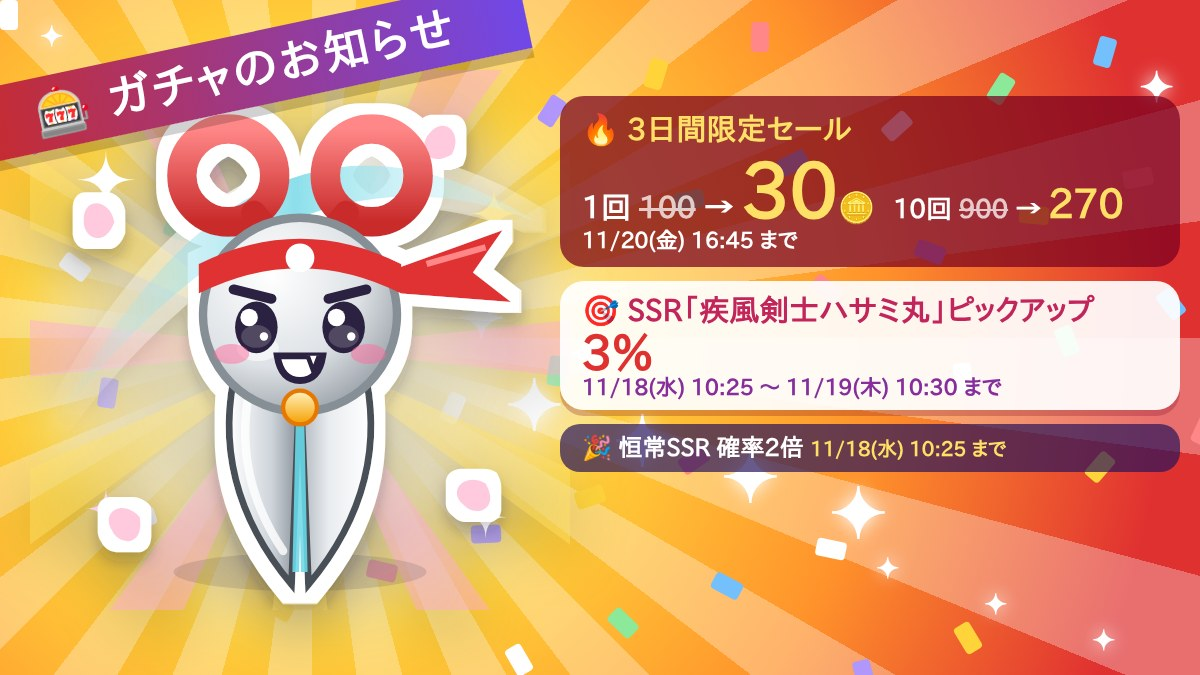
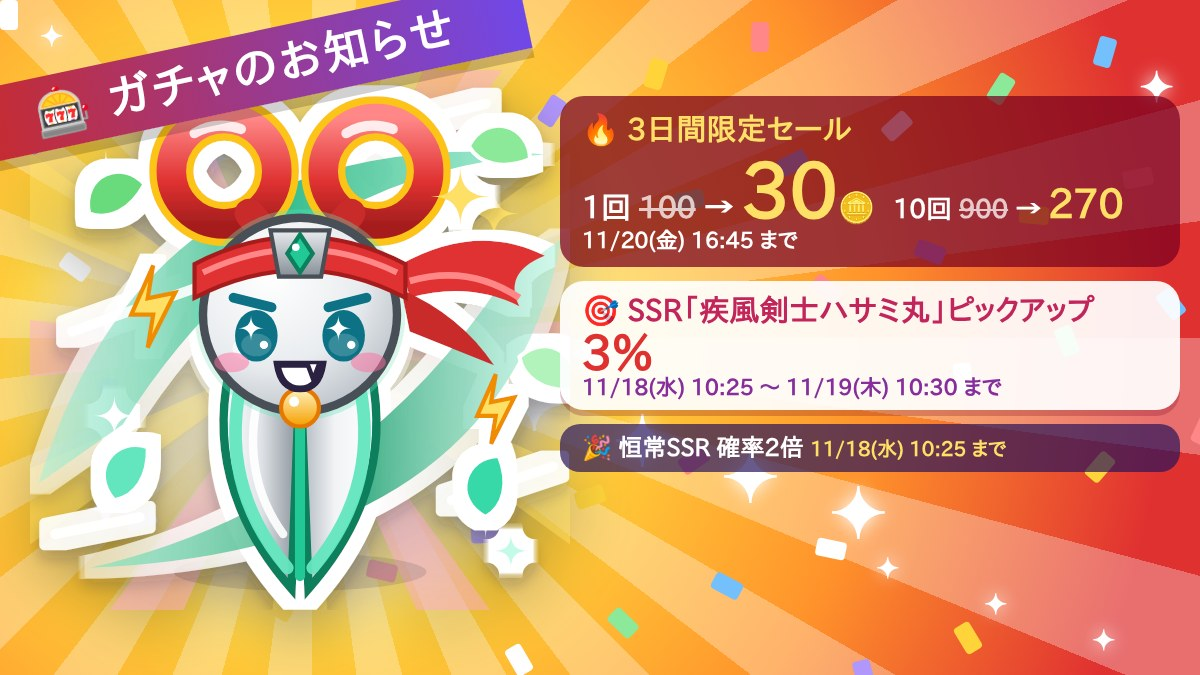
ハサミ丸をもっと派手なデザインに・しっぷうぎりに緑の斬撃の演出・わざの説明から専用の表記を消す
- 絵: エメラルドの疾風・稲妻・葉っぱ、赤金のリング、なびく鉢巻と宝石、星の目
- 対戦: しっぷうぎりで相手の盤面に緑の斬撃。大きな演出は画面の上に重ねて出す (次のターンで消えないように)
- ドパバナー (新キャラ・ガチャ・クエスト) を作り直し

Claude-Session: https://claude.ai/code/session_0131LAB3VBSEDYy6z21kYLHB

Changed region(s): [[0.0, 0.1244, 0.4933, 0.9022]]

diff --git a/public/cards-art.js b/public/cards-art.js
@@ -233,43 +233,42 @@
         <rect x="34" y="22" width="9" height="24" rx="3" fill="#f8f9fa" stroke="#ced4da" transform="rotate(-24 38 34)"/><rect x="77" y="22" width="9" height="24" rx="3" fill="#fff0f6" stroke="#fcc2d7" transform="rotate(24 82 34)"/>
         <path d="M14,24l4,4m0-4l-4,4M100,18a4,4 0 1 0 0.1,0M16,100q4-6 8,0" stroke="#fff" stroke-width="2" fill="none" opacity=".8" stroke-linecap="round"/>
         ${face(60, 62, { eyes: 'fierce', mouth: 'grin' })}`,
+      // 疾風剣士ハサミ丸: エメラルドの疾風をまとった刀のハサミ。燃える赤金のリング、なびく鉢巻、星の目でニカッと笑う
       scissors: () => {
-        const petal = (x, y, r) => `<path d="M${x},${y}c-3,-5 -9,-3 -7,2c1,4 7,5 7,-2z" fill="#ffc9de" transform="rotate(${r} ${x} ${y})"/>`;
+        const leaf = (x, y, r, c) => `<path d="M${x},${y}c-5,-8 3,-15 10,-11c-1,7 -5,11 -10,11z" fill="${c}" stroke="#fff" stroke-width="1" transform="rotate(${r} ${x} ${y})"/>`;
+        const bolt = (x, y, sc) => `<path d="M${x},${y}l${4 * sc},${-9 * sc}l${-1 * sc},${6 * sc}l${5 * sc},${-1 * sc}l${-5 * sc},${10 * sc}l${1 * sc},${-6 * sc}z" fill="#ffe066" stroke="#f08c00" stroke-width="1"/>`;
         return `
-        <path class="cb-slash" d="M2,78Q50,-12 116,30Q56,6 2,78Z" fill="${lg('sl', [[0, '#99e9f2', 0], [0.5, '#66d9e8', 0.85], [1, '#e3fafc', 0.2]], 1, 0)}"/>
-        ${petal(16, 30, 20)}${petal(104, 92, -30)}${petal(96, 14, 60)}${petal(22, 100, -10)}
-        <path d="M45,64Q38,92 58,116L60,66Z" fill="${lg('bl', [[0, '#ffffff'], [0.6, '#ced4da'], [1, '#868e96']], 1, 0)}" stroke="#495057" stroke-width="1.6"/>
-        <path d="M75,64Q82,92 62,116L60,66Z" fill="${lg('br', [[0, '#adb5bd'], [0.4, '#e9ecef'], [1, '#ffffff']], 1, 0)}" stroke="#495057" stroke-width="1.6"/>
-        <path d="M60,68L59,113M60,68L61,113" stroke="#66d9e8" stroke-width="1.6" opacity=".9"/>
-        <path d="M48,70Q44,90 56,108" stroke="#fff" stroke-width="2" fill="none" opacity=".8" stroke-linecap="round"/>
-        <circle cx="43" cy="19" r="11" fill="none" stroke="${lg('r1', [[0, '#ff8787'], [1, '#c92a2a']])}" stroke-width="7"/>
-        <circle cx="77" cy="19" r="11" fill="none" stroke="${lg('r2', [[0, '#ff8787'], [1, '#c92a2a']])}" stroke-width="7"/>
-        <path d="M49,28L53,33M71,28L67,33" stroke="#c92a2a" stroke-width="6" stroke-linecap="round"/>
-        <circle cx="60" cy="52" r="23" fill="${rg('dk', [[0, '#ffffff'], [0.55, '#dee2e6'], [1, '#868e96']])}" stroke="#868e96" stroke-width="2"/>
-        <path d="M36,40Q60,28 84,40L84,47Q60,35 36,47Z" fill="#e03131"/>
-        <path d="M83,41L108,32L101,42L110,49L84,47Z" fill="#e03131"/><path d="M90,40L104,36" stroke="#ff8787" stroke-width="1.5"/>
-        <circle cx="60" cy="38.5" r="3.4" fill="#fff"/>
-        <circle cx="60" cy="74" r="4" fill="${lg('pv', [[0, '#fff3bf'], [1, '#f59f00']])}" stroke="#e67700"/>
-        ${gloss(50, 60, 5, 3)}
-        ${face(60, 55, { eyes: 'brave', mouth: 'grin', s: 0.9 })}`;
-      },
-      // 星キャンディー (MR): 星の形のキャンディー。両はしにセロハンのつつみ、虹のうずまき、星の目、流れ星のステッキ
-      star: () => {
-        const pts = Array.from({ length: 10 }, (_, i) => { const a = (-90 + i * 36) * Math.PI / 180, r = i % 2 ? 21 : 41; return `${(60 + Math.cos(a) * r).toFixed(1)},${(64 + Math.sin(a) * r).toFixed(1)}`; }).join(' ');
-        const swirl = Array.from({ length: 5 }, (_, i) => `<path d="M60,64Q${60 + Math.cos((i * 72 - 60) * Math.PI / 180) * 30},${64 + Math.sin((i * 72 - 60) * Math.PI / 180) * 30} ${60 + Math.cos((i * 72 - 18) * Math.PI / 180) * 40},${64 + Math.sin((i * 72 - 18) * Math.PI / 180) * 40}" stroke="${['#ff8fd8', '#ffe066', '#8ce99a', '#74c0fc', '#d0a8ff'][i]}" stroke-width="5" fill="none" stroke-linecap="round" opacity=".85"/>`).join('');
-        return `
-        <path d="M30,66L4,52Q0,66 6,82Z" fill="${lg('wl', [[0, '#ffd6f5', 0.95], [1, '#c5b3ff', 0.75]], 1, 0)}" stroke="#ffffff" stroke-width="2"/>
-        <path d="M8,58L24,66M8,74L24,68" stroke="#fff" stroke-width="1.6" opacity=".9"/>
-        <path d="M90,66L116,52Q120,66 114,82Z" fill="${lg('wr', [[0, '#c5f6fa', 0.75], [1, '#ffd6f5', 0.95]], 1, 0)}" stroke="#ffffff" stroke-width="2"/>
-        <path d="M112,58L96,66M112,74L96,68" stroke="#fff" stroke-width="1.6" opacity=".9"/>
-        <polygon points="${pts}" fill="${rg('sc', [[0, '#fffbe6'], [0.45, '#ffd8f3'], [0.8, '#ffa8e2'], [1, '#e599f7']], 0.45, 0.4, 0.75)}" stroke="#ffffff" stroke-width="7" stroke-linejoin="round"/>
-        <polygon points="${pts}" fill="none" stroke="${lg('se', [[0, '#ff6bd6'], [0.33, '#ffd43b'], [0.66, '#63e6be'], [1, '#845ef7']], 1, 1)}" stroke-width="2.6" stroke-linejoin="round"/>
-        <g clip-path="${clip('sx', `<polygon points="${pts}"/>`)}">${swirl}<circle cx="60" cy="64" r="11" fill="#fff" opacity=".55"/></g>
-        ${gloss(44, 40, 7, 4)}<circle cx="78" cy="50" r="2.2" fill="#fff"/><circle cx="40" cy="82" r="1.6" fill="#fff"/>
-        <path d="M84,96L104,72" stroke="${lg('wd', [[0, '#ffe066'], [1, '#f59f00']])}" stroke-width="4" stroke-linecap="round"/>
-        ${twinkle(106, 69, 9, '#ffe066')}${twinkle(106, 69, 4, '#fff')}
-        <path d="M100,40Q108,32 116,22" stroke="#fff" stroke-width="2" stroke-dasharray="1 4" stroke-linecap="round" fill="none"/>
-        ${face(60, 62, { eyes: 'star', mouth: 'open', s: 0.95, iris: '#4c2a85' })}`;
+        <g class="cb-slash">
+          <path d="M-2,92Q24,6 118,14Q56,18 18,78Z" fill="${lg('w1', [[0, '#96f2d7', 0.5], [0.45, '#12b886', 1], [1, '#63e6be', 0.7]], 1, 0)}"/>
+          <path d="M122,34Q108,108 10,112Q72,98 108,44Z" fill="${lg('w2', [[0, '#63e6be', 0.6], [0.55, '#0ca678', 1], [1, '#96f2d7', 0.5]], 1, 0)}"/>
+          <path d="M6,56L40,44M80,8L104,2M96,96L120,88M2,104L22,100" stroke="#fff" stroke-width="2.4" stroke-linecap="round" opacity=".9"/>
+        </g>
+        ${leaf(10, 28, 20, '#69db7c')}${leaf(104, 100, -30, '#38d9a9')}${leaf(100, 12, 60, '#8ce99a')}${leaf(16, 96, -10, '#63e6be')}${leaf(112, 62, 80, '#b2f2bb')}
+        ${bolt(20, 52, 1.3)}${bolt(102, 76, 1.1)}
+        <path d="M44,62Q36,92 58,117L60,64Z" fill="${lg('bl', [[0, '#ffffff'], [0.5, '#dee2e6'], [1, '#868e96']], 1, 0)}" stroke="#087f5b" stroke-width="2"/>
+        <path d="M76,62Q84,92 62,117L60,64Z" fill="${lg('br', [[0, '#adb5bd'], [0.45, '#f1f3f5'], [1, '#ffffff']], 1, 0)}" stroke="#087f5b" stroke-width="2"/>
+        <path d="M46.5,66Q40,92 57,112" stroke="#63e6be" stroke-width="3" fill="none" stroke-linecap="round" opacity=".95"/>
+        <path d="M73.5,66Q80,92 63,112" stroke="#63e6be" stroke-width="3" fill="none" stroke-linecap="round" opacity=".95"/>
+        <path d="M50,72Q46,90 56,104" stroke="#fff" stroke-width="2" fill="none" opacity=".9" stroke-linecap="round"/>
+        <path d="M60,66L60,114" stroke="#20c997" stroke-width="2.4" stroke-linecap="round"/>
+        <circle cx="42" cy="18" r="12.5" fill="none" stroke="#fcc419" stroke-width="10.5"/>
+        <circle cx="78" cy="18" r="12.5" fill="none" stroke="#fcc419" stroke-width="10.5"/>
+        <circle cx="42" cy="18" r="12.5" fill="none" stroke="${lg('r1', [[0, '#ff8787'], [0.6, '#e03131'], [1, '#a61e1e']])}" stroke-width="7"/>
+        <circle cx="78" cy="18" r="12.5" fill="none" stroke="${lg('r2', [[0, '#ff8787'], [0.6, '#e03131'], [1, '#a61e1e']])}" stroke-width="7"/>
+        <path d="M35,9Q40,6 46,8M71,9Q76,6 82,8" stroke="#fff" stroke-width="2.4" fill="none" stroke-linecap="round" opacity=".85"/>
+        <path d="M48,28L53,34M72,28L67,34" stroke="#c92a2a" stroke-width="7" stroke-linecap="round"/>
+        <circle cx="60" cy="52" r="25" fill="#63e6be" opacity=".35"/>
+        <circle cx="60" cy="52" r="23" fill="${rg('dk', [[0, '#ffffff'], [0.55, '#e9ecef'], [1, '#adb5bd']])}" stroke="#495057" stroke-width="2"/>
+        <path d="M84,40Q102,30 118,38Q108,42 112,50Q100,44 86,48Z" fill="#e03131"/><path d="M86,44Q100,40 112,48" stroke="#ff8787" stroke-width="1.6" fill="none"/>
+        <path d="M84,46Q98,52 106,64Q96,60 86,56Z" fill="#c92a2a"/>
+        <path d="M35,40Q60,27 85,40L85,48Q60,35 35,48Z" fill="#e03131" stroke="#a61e1e" stroke-width="1"/>
+        <path d="M37,42Q60,31 83,42" stroke="#ff8787" stroke-width="1.4" fill="none"/>
+        <path d="M53,32L67,32L65,43L55,43Z" fill="${lg('pl', [[0, '#e9ecef'], [1, '#868e96']])}" stroke="#495057" stroke-width="1"/>
+        <path d="M60,33L63,37.5L60,42L57,37.5Z" fill="#20c997" stroke="#087f5b" stroke-width="1"/><circle cx="59" cy="36" r="0.9" fill="#fff"/>
+        <circle cx="60" cy="74" r="4.5" fill="${lg('pv', [[0, '#fff3bf'], [1, '#f59f00']])}" stroke="#e67700"/><circle cx="58.6" cy="72.6" r="1.2" fill="#fff"/>
+        ${gloss(49, 60, 5, 3)}
+        ${face(60, 57, { eyes: 'star', brows: true, mouth: 'grin', s: 0.9, iris: '#0b7285' })}
+        ${twinkle(98, 24, 7, '#ffe066')}${twinkle(16, 76, 5, '#fff')}${twinkle(110, 108, 4, '#c3fae8')}`;
       },
       case: () => `
         ${heart(18, 30, 1.2, '#ff8fab')}${heart(104, 26, 0.9, '#b197fc')}

diff --git a/public/app.js b/public/app.js
@@ -3510,6 +3510,14 @@ async function viewBattle(params) {
   }
   const wsSend = (m) => { if (ws && ws.readyState === 1) ws.send(JSON.stringify(m)); };
   // 1 ターンの出来事を順番に見せる: こうげきした側が飛び出し、受けた側がゆれて数字が出る
+  // 大きな演出 (斬撃・流星) は、画面の上に重ねて出す (次のターンで画面が描き直されても消えないように)
+  function overlayFx(cls, html, ms, part = 'all') {
+    const b = box(); if (!b) return;
+    const r = b.getBoundingClientRect(), h = part === 'all' ? r.height : r.height * 0.55, top = part === 'bottom' ? r.top + r.height * 0.45 : r.top;
+    const fx = document.createElement('div'); fx.className = cls; fx.innerHTML = html;
+    Object.assign(fx.style, { position: 'fixed', left: r.left + 'px', top: top + 'px', width: r.width + 'px', height: h + 'px', right: 'auto', bottom: 'auto' });
+    document.body.append(fx); setTimeout(() => fx.remove(), ms);
+  }
   function animate(events) {
     if (matchMedia('(prefers-reduced-motion: reduce)').matches) return;
     const el = (p) => box()?.querySelector(`.cb-fighter[data-side="${p === you ? 'me' : 'foe'}"]`);
@@ -3533,15 +3541,19 @@ async function viewBattle(params) {
         }, t);
         t += 420;
       } else if (e.k === 'heal') { setTimeout(() => pop(e.p, `+${e.amount}`, 'heal'), t); t += 300; }
+      else if (e.k === 'skill' && e.id === 'sweep') { // しっぷうぎり: 緑の斬撃が相手の盤面を横切る
+        setTimeout(() => {
+          replay(el(e.p), 'charge'); pop(e.p, e.skill, 'skill sweep');
+          overlayFx('cb-gslash' + (e.p === you ? ' to-foe' : ' to-me'), '<i></i><i></i><i></i><b>しっぷうぎり！</b>', 1300, e.p === you ? 'top' : 'bottom');
+        }, t);
+        t += 650;
+      }
       else if (e.k === 'skill') { setTimeout(() => { replay(el(e.p), 'charge'); pop(e.p, e.skill, 'skill'); }, t); t += 320; }
       else if (e.k === 'guard') { setTimeout(() => replay(el(e.p), 'guarding'), t); }
       else if (e.k === 'ko') { setTimeout(() => pop(e.p, 'KO!', 'ko'), t); t += 300; }
       else if (e.k === 'starfall') {
         setTimeout(() => {
-          const b = box(); if (!b) return;
-          const sky = document.createElement('div'); sky.className = 'cb-starfall' + (e.target === you ? ' on-me' : '');
-          sky.innerHTML = '<b>🌠 スターライトマーチ！</b>' + Array.from({ length: 14 }, (_, i) => `<i style="--x:${(i * 37) % 100}%;--d:${(i % 7) * 0.09}s"></i>`).join('');
-          b.append(sky); setTimeout(() => sky.remove(), 1900);
+          overlayFx('cb-starfall' + (e.target === you ? ' on-me' : ''), '<b>🌠 スターライトマーチ！</b>' + Array.from({ length: 14 }, (_, i) => `<i style="--x:${(i * 37) % 100}%;--d:${(i % 7) * 0.09}s"></i>`).join(''), 1900);
         }, t);
         t += 700;
       }

diff --git a/public/style.css b/public/style.css
@@ -1866,3 +1866,19 @@ a.quote-embed:hover { background: var(--surface-2); border-color: var(--border-s
 .cbu-bar { height: 8px; border-radius: 99px; background: color-mix(in srgb, var(--text) 8%, transparent); overflow: hidden; }
 .cbu-bar i { display: block; height: 100%; border-radius: inherit; background: var(--rc); transition: width .5s ease; }
 .cbu-pct { display: grid; justify-items: end; line-height: 1.15; } .cbu-pct b { font-size: 16px; } .cbu-pct small { font-size: 11px; color: var(--text-2); }
+
+/* しっぷうぎりの緑の斬撃 */
+.cb-gslash { position: absolute; left: 0; right: 0; height: 55%; z-index: 20; pointer-events: none; overflow: hidden; border-radius: inherit; display: grid; place-items: center; animation: cb-gs-flash 1.3s ease both; }
+.cb-gslash.to-foe { top: 0; } .cb-gslash.to-me { bottom: 0; }
+.cb-gslash i { position: absolute; left: -10%; width: 120%; height: 14px; border-radius: 50%; background: linear-gradient(90deg, transparent, #c3fae8 15%, #fff 45%, #38d9a9 70%, transparent); box-shadow: 0 0 18px 4px #20c997, 0 0 40px 10px rgba(32, 201, 151, .55); transform-origin: left center; animation: cb-gs-cut .45s cubic-bezier(.2, .9, .2, 1) both; }
+.cb-gslash i:nth-child(1) { top: 28%; transform: rotate(-16deg) scaleX(0); }
+.cb-gslash i:nth-child(2) { top: 50%; transform: rotate(12deg) scaleX(0); animation-delay: .12s; height: 18px; }
+.cb-gslash i:nth-child(3) { top: 70%; transform: rotate(-6deg) scaleX(0); animation-delay: .24s; }
+.cb-gslash i:nth-child(1) { --r: -16deg; } .cb-gslash i:nth-child(2) { --r: 12deg; } .cb-gslash i:nth-child(3) { --r: -6deg; }
+.cb-gslash b { position: relative; font-size: 30px; font-weight: 900; color: #fff; -webkit-text-stroke: 6px #087f5b; paint-order: stroke fill; text-shadow: 0 0 18px #38d9a9; animation: cb-shout 1.2s cubic-bezier(.2, 1.6, .4, 1) .2s both; }
+@keyframes cb-gs-cut { 0% { transform: rotate(var(--r)) scaleX(0); opacity: 1; } 60% { transform: rotate(var(--r)) scaleX(1); opacity: 1; } 100% { transform: rotate(var(--r)) scaleX(1); opacity: 0; } }
+@keyframes cb-gs-flash { 0% { background: rgba(56, 217, 169, 0); } 15% { background: rgba(56, 217, 169, .35); } 100% { background: rgba(56, 217, 169, 0); } }
+.cb-float.skill.sweep { color: #0ca678; text-shadow: 0 0 10px #c3fae8; }
+@media (prefers-reduced-motion: reduce) { .cb-gslash { display: none; } }
+
+.cb-gslash, .cb-starfall { border-radius: 16px; z-index: 60; }

diff --git a/cards.js b/cards.js
@@ -21,7 +21,7 @@ const SKILLS = {
   heal: { name: 'なおす', desc: '最大 HP の 45% 回復して、このターンのダメージを半分にする' },
   barrier: { name: 'バリア', desc: 'このターンのダメージを 0 にして、0.8 倍で反撃' },
   starlight: { name: 'スターライトマーチ', desc: '流星を降らせる: 5 ターンのあいだ、ターンの終わりに相手の場のカードへ最大 HP の 30% のダメージ (ガード無視。かけ直すと 5 ターンにもどる) (星キャンディーだけのわざ)' },
-  sweep: { name: 'しっぷうぎり', desc: '相手の場のカードに 1.4 倍、控えのカードに 0.8 倍の無属性こうげき + 全員に毒 (毎ターン最大 HP の 8%・3 ターン) (疾風剣士ハサミ丸だけのわざ)' },
+  sweep: { name: 'しっぷうぎり', desc: '相手の場のカードに 1.4 倍、控えのカードに 0.8 倍の無属性こうげき + 全員に毒 (毎ターン最大 HP の 8%・3 ターン)' },
 };
 // レア度とレベルで強くなる: R +4% / SR +8% / SSR +12%、レベル 1 つにつき +2% (Lv5 で +8%)。
 // この強さなら、はじめのデッキでも SSR のデッキに 1〜2 割は勝てる (作戦と相性で逆転できる) ことをシミュレーションで確かめた。
@@ -211,7 +211,7 @@ function resolveTurn(state, acts, rnd) {
     if (act[p].a === 'attack') hit(p, 1);
     else {
       me.cd = SKILL_CD; usedSkill.add(me);
-      ev.push({ k: 'skill', p, card: me.name, skill: SKILLS[me.skill].name });
+      ev.push({ k: 'skill', p, card: me.name, skill: SKILLS[me.skill].name, id: me.skill });
       if (me.skill === 'power') hit(p, 1.8);
       else if (me.skill === 'pierce') hit(p, 1.3, { pierce: true });
       else if (me.skill === 'drain') { const d = hit(p, 1.2); const h = Math.min(me.maxHp - me.hp, Math.round(d / 2)); me.hp += h; if (h) ev.push({ k: 'heal', p, card: me.name, amount: h }); }

diff --git a/public/index.html b/public/index.html
@@ -13,7 +13,7 @@
 <meta name="apple-mobile-web-app-status-bar-style" content="default">
 <link rel="icon" href="/favicon.svg" type="image/svg+xml">
 <link rel="apple-touch-icon" href="/favicon.svg">
-<link rel="stylesheet" href="/style.css?v=63">
+<link rel="stylesheet" href="/style.css?v=65">
 </head>
 <body>
 <!-- アイコン (SVG スプライト。線幅・角の丸みを統一) -->
@@ -226,7 +226,7 @@
   </div>
 </div>
 
-<script src="/cards-art.js?v=5"></script>
-<script src="/app.js?v=63"></script>
+<script src="/cards-art.js?v=6"></script>
+<script src="/app.js?v=65"></script>
 </body>
 </html>
